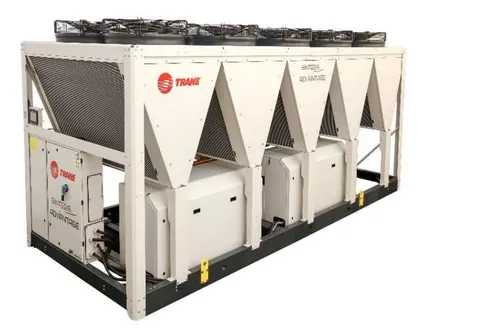
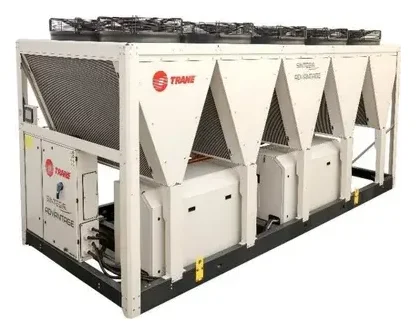
Fotos de equipos completas y sin márgenes de más
Las fotos verticales se recortaban dentro del recuadro 4:3; ahora entran
enteras. Se recortó el margen blanco de las imágenes de producto para
que todas se vean de un tamaño parejo.

diff --git a/index.html b/index.html
@@ -31,7 +31,7 @@
         imagesrcset="assets/img/equipo/montaje-chillers-grua-640.webp 640w, assets/img/equipo/montaje-chillers-grua-1280.webp 1280w"
         imagesizes="100vw" fetchpriority="high">
 
-  <link rel="stylesheet" href="css/styles.css?v=202610142031">
+  <link rel="stylesheet" href="css/styles.css?v=202610151312">
 
   <script type="application/ld+json">
   {
@@ -352,43 +352,43 @@
           <div class="tab-panel" role="tabpanel" id="panel-clima" aria-labelledby="tab-clima">
             <ul class="equip-grid">
               <li class="equip-card">
-                <div class="equip-card__media"><img src="assets/img/equipos/split-pared-458.webp" width="458" height="190" alt="Split pared On/Off" loading="lazy" decoding="async"></div>
+                <div class="equip-card__media"><img src="assets/img/equipos/split-pared-458.webp" width="460" height="171" alt="Split pared On/Off" loading="lazy" decoding="async"></div>
                 <span class="equip-card__code mono">CL-01</span>
                 <h4 class="equip-card__title">Split pared On/Off</h4>
                 <p>Confort individual para oficinas y ambientes medianos.</p>
               </li>
               <li class="equip-card">
-                <div class="equip-card__media"><img src="assets/img/equipos/cassette-428.webp" width="428" height="339" alt="Cassette" loading="lazy" decoding="async"></div>
+                <div class="equip-card__media"><img src="assets/img/equipos/cassette-428.webp" width="415" height="256" alt="Cassette" loading="lazy" decoding="async"></div>
                 <span class="equip-card__code mono">CL-02</span>
                 <h4 class="equip-card__title">Cassette</h4>
                 <p>Distribución de aire en 4 vías, embutido en el cielorraso.</p>
               </li>
               <li class="equip-card">
-                <div class="equip-card__media"><img src="assets/img/equipos/piso-techo-411.webp" width="411" height="326" alt="Piso techo" loading="lazy" decoding="async"></div>
+                <div class="equip-card__media"><img src="assets/img/equipos/piso-techo-411.webp" width="398" height="238" alt="Piso techo" loading="lazy" decoding="async"></div>
                 <span class="equip-card__code mono">CL-03</span>
                 <h4 class="equip-card__title">Piso techo</h4>
                 <p>Montaje flexible en techo o pared para ambientes amplios.</p>
               </li>
               <li class="equip-card">
-                <div class="equip-card__media"><img src="assets/img/equipos/baja-silueta-426.webp" width="426" height="336" alt="Baja silueta" loading="lazy" decoding="async"></div>
+                <div class="equip-card__media"><img src="assets/img/equipos/baja-silueta-426.webp" width="437" height="268" alt="Baja silueta" loading="lazy" decoding="async"></div>
                 <span class="equip-card__code mono">CL-04</span>
                 <h4 class="equip-card__title">Baja silueta</h4>
                 <p>Unidad oculta por ducto: el aire llega por rejillas, sin equipos a la vista.</p>
               </li>
               <li class="equip-card">
-                <div class="equip-card__media"><img src="assets/img/equipos/multisplit-480.webp" width="480" height="399" alt="Multisplit" loading="lazy" decoding="async"></div>
+                <div class="equip-card__media"><img src="assets/img/equipos/multisplit-480.webp" width="461" height="347" alt="Multisplit" loading="lazy" decoding="async"></div>
                 <span class="equip-card__code mono">CL-05</span>
                 <h4 class="equip-card__title">Multisplit</h4>
                 <p>Una sola unidad exterior para varios ambientes interiores.</p>
               </li>
               <li class="equip-card">
-                <div class="equip-card__media"><img src="assets/img/equipos/vrf-480.webp" width="480" height="239" alt="Sistema VRF" loading="lazy" decoding="async"></div>
+                <div class="equip-card__media"><img src="assets/img/equipos/vrf-480.webp" width="480" height="250" alt="Sistema VRF" loading="lazy" decoding="async"></div>
                 <span class="equip-card__code mono">CL-06</span>
                 <h4 class="equip-card__title">Sistema VRF</h4>
                 <p>Caudal de refrigerante variable para edificios con muchas zonas.</p>
               </li>
               <li class="equip-card">
-                <div class="equip-card__media"><img src="assets/img/equipos/rooftop-480.webp" width="480" height="341" alt="Rooftop" loading="lazy" decoding="async"></div>
+                <div class="equip-card__media"><img src="assets/img/equipos/rooftop-480.webp" width="511" height="354" alt="Rooftop" loading="lazy" decoding="async"></div>
                 <span class="equip-card__code mono">CL-07</span>
                 <h4 class="equip-card__title">Rooftop</h4>
                 <p>Equipo compacto en azotea para grandes superficies.</p>
@@ -398,25 +398,25 @@
           <div class="tab-panel" role="tabpanel" id="panel-agua" aria-labelledby="tab-agua" hidden>
             <ul class="equip-grid">
               <li class="equip-card">
-                <div class="equip-card__media"><img src="assets/img/equipos/chiller-tornillo-468.webp" width="468" height="311" alt="Chiller tornillo" loading="lazy" decoding="async"></div>
+                <div class="equip-card__media"><img src="assets/img/equipos/chiller-tornillo-468.webp" width="428" height="309" alt="Chiller tornillo" loading="lazy" decoding="async"></div>
                 <span class="equip-card__code mono">AF-01</span>
                 <h4 class="equip-card__title">Chiller tornillo</h4>
                 <p>Alta capacidad para edificios de gran porte y procesos industriales.</p>
               </li>
               <li class="equip-card">
-                <div class="equip-card__media"><img src="assets/img/equipos/chiller-scroll-480.webp" width="480" height="334" alt="Chiller scroll" loading="lazy" decoding="async"></div>
+                <div class="equip-card__media"><img src="assets/img/equipos/chiller-scroll-480.webp" width="416" height="334" alt="Chiller scroll" loading="lazy" decoding="async"></div>
                 <span class="equip-card__code mono">AF-02</span>
                 <h4 class="equip-card__title">Chiller scroll</h4>
                 <p>Eficiencia en cargas medias, con compresores escalonados.</p>
               </li>
               <li class="equip-card">
-                <div class="equip-card__media"><img src="assets/img/equipos/chiller-modular-480.webp" width="480" height="372" alt="Chiller modular" loading="lazy" decoding="async"></div>
+                <div class="equip-card__media"><img src="assets/img/equipos/chiller-modular-480.webp" width="511" height="382" alt="Chiller modular" loading="lazy" decoding="async"></div>
                 <span class="equip-card__code mono">AF-03</span>
                 <h4 class="equip-card__title">Chiller modular</h4>
                 <p>Capacidad que crece por módulos según la demanda.</p>
               </li>
               <li class="equip-card">
-                <div class="equip-card__media"><img src="assets/img/equipos/manejadoras-345.webp" width="345" height="229" alt="Manejadoras" loading="lazy" decoding="async"></div>
+                <div class="equip-card__media"><img src="assets/img/equipos/manejadoras-345.webp" width="304" height="181" alt="Manejadoras" loading="lazy" decoding="async"></div>
                 <span class="equip-card__code mono">AF-04</span>
                 <h4 class="equip-card__title">Manejadoras</h4>
                 <p>Unidades de tratamiento de aire conectadas a la planta de agua fría.</p>
@@ -426,37 +426,37 @@
           <div class="tab-panel" role="tabpanel" id="panel-vent" aria-labelledby="tab-vent" hidden>
             <ul class="equip-grid">
               <li class="equip-card">
-                <div class="equip-card__media"><img src="assets/img/equipos/conductos-chapa-galvanizada-480.webp" width="480" height="191" alt="Conductos de chapa galvanizada" loading="lazy" decoding="async"></div>
+                <div class="equip-card__media"><img src="assets/img/equipos/conductos-chapa-galvanizada-480.webp" width="518" height="229" alt="Conductos de chapa galvanizada" loading="lazy" decoding="async"></div>
                 <span class="equip-card__code mono">VC-01</span>
                 <h4 class="equip-card__title">Conductos de chapa galvanizada</h4>
                 <p>Fabricación y montaje de redes de conductos a medida.</p>
               </li>
               <li class="equip-card">
-                <div class="equip-card__media"><img src="assets/img/equipos/conductos-alupir-480.webp" width="480" height="526" alt="Conductos de placas Alupir" loading="lazy" decoding="async"></div>
+                <div class="equip-card__media"><img src="assets/img/equipos/conductos-alupir-480.webp" width="499" height="544" alt="Conductos de placas Alupir" loading="lazy" decoding="async"></div>
                 <span class="equip-card__code mono">VC-02</span>
                 <h4 class="equip-card__title">Conductos de placas Alupir</h4>
                 <p>Paneles preaislados: livianos, herméticos y de montaje rápido.</p>
               </li>
               <li class="equip-card">
-                <div class="equip-card__media"><img src="assets/img/equipos/conducto-textil-480.webp" width="480" height="288" alt="Conducto textil" loading="lazy" decoding="async"></div>
+                <div class="equip-card__media"><img src="assets/img/equipos/conducto-textil-480.webp" width="430" height="187" alt="Conducto textil" loading="lazy" decoding="async"></div>
                 <span class="equip-card__code mono">VC-03</span>
                 <h4 class="equip-card__title">Conducto textil</h4>
                 <p>Difusión homogénea del aire en naves y grandes volúmenes.</p>
               </li>
               <li class="equip-card">
-                <div class="equip-card__media"><img src="assets/img/equipos/rejas-trox-480.webp" width="480" height="320" alt="Rejas Trox" loading="lazy" decoding="async"></div>
+                <div class="equip-card__media"><img src="assets/img/equipos/rejas-trox-480.webp" width="501" height="332" alt="Rejas Trox" loading="lazy" decoding="async"></div>
                 <span class="equip-card__code mono">VC-04</span>
                 <h4 class="equip-card__title">Rejas Trox</h4>
                 <p>Rejas, difusores y dampers Trox para la terminal de aire.</p>
               </li>
               <li class="equip-card">
-                <div class="equip-card__media"><img src="assets/img/equipos/ventiladores-centrifugos-480.webp" width="480" height="719" alt="Ventiladores centrífugos" loading="lazy" decoding="async"></div>
+                <div class="equip-card__media"><img src="assets/img/equipos/ventiladores-centrifugos-480.webp" width="411" height="368" alt="Ventiladores centrífugos" loading="lazy" decoding="async"></div>
                 <span class="equip-card__code mono">VC-05</span>
                 <h4 class="equip-card__title">Ventiladores centrífugos</h4>
                 <p>Extracción e inyección con alta presión disponible.</p>
               </li>
               <li class="equip-card">
-                <div class="equip-card__media"><img src="assets/img/equipos/ventiladores-axiales-480.webp" width="480" height="720" alt="Ventiladores axiales" loading="lazy" decoding="async"></div>
+                <div class="equip-card__media"><img src="assets/img/equipos/ventiladores-axiales-480.webp" width="409" height="371" alt="Ventiladores axiales" loading="lazy" decoding="async"></div>
                 <span class="equip-card__code mono">VC-06</span>
                 <h4 class="equip-card__title">Ventiladores axiales</h4>
                 <p>Grandes caudales de aire para ventilación general.</p>
@@ -840,7 +840,7 @@
   <script src="https://cdnjs.cloudflare.com/ajax/libs/gsap/3.12.5/gsap.min.js" defer></script>
   <script src="https://cdnjs.cloudflare.com/ajax/libs/gsap/3.12.5/ScrollTrigger.min.js" defer></script>
   <script src="https://cdn.jsdelivr.net/npm/lenis@1.1.13/dist/lenis.min.js" defer></script>
-  <script src="js/flow.js?v=202610142031" defer></script>
-  <script src="js/main.js?v=202610142031" defer></script>
+  <script src="js/flow.js?v=202610151312" defer></script>
+  <script src="js/main.js?v=202610151312" defer></script>
 </body>
 </html>

diff --git a/obras.html b/obras.html
@@ -27,7 +27,7 @@
   <link rel="preconnect" href="https://fonts.gstatic.com" crossorigin>
   <link rel="stylesheet" href="https://fonts.googleapis.com/css2?family=Archivo:ital,wdth,wght@0,100..125,500..800;1,100..125,500..800&family=IBM+Plex+Mono:wght@400;500&family=IBM+Plex+Sans:wght@400;500;600&display=swap">
 
-  <link rel="stylesheet" href="css/styles.css?v=202610142031">
+  <link rel="stylesheet" href="css/styles.css?v=202610151312">
 </head>
 <body class="page-obras">
   <a class="skip-link" href="#main">Saltar al contenido</a>
@@ -440,8 +440,8 @@
   <script src="https://cdnjs.cloudflare.com/ajax/libs/gsap/3.12.5/ScrollTrigger.min.js" defer></script>
   <script src="https://cdnjs.cloudflare.com/ajax/libs/gsap/3.12.5/Flip.min.js" defer></script>
   <script src="https://cdn.jsdelivr.net/npm/lenis@1.1.13/dist/lenis.min.js" defer></script>
-  <script src="js/obras-data.js?v=202610142031" defer></script>
-  <script src="js/main.js?v=202610142031" defer></script>
-  <script src="js/obras.js?v=202610142031" defer></script>
+  <script src="js/obras-data.js?v=202610151312" defer></script>
+  <script src="js/main.js?v=202610151312" defer></script>
+  <script src="js/obras.js?v=202610151312" defer></script>
 </body>
 </html>

diff --git a/css/styles.css b/css/styles.css
@@ -854,13 +854,15 @@ body.menu-open .site-header::before { opacity: 0; }
   border-bottom: 1px solid var(--line);
 }
 .equip-card__media {
-  display: grid; place-items: center;
+  position: relative;
   aspect-ratio: 4 / 3;
   margin-bottom: .75rem;
   overflow: hidden;
 }
+/* absoluta: así las fotos verticales entran completas en el recuadro 4:3 sin recortarse */
 .equip-card__media img {
-  width: 100%; height: 100%;
+  position: absolute; inset: .5rem;
+  width: calc(100% - 1rem); height: calc(100% - 1rem);
   object-fit: contain;
   transition: transform .8s var(--ease-out);
 }
